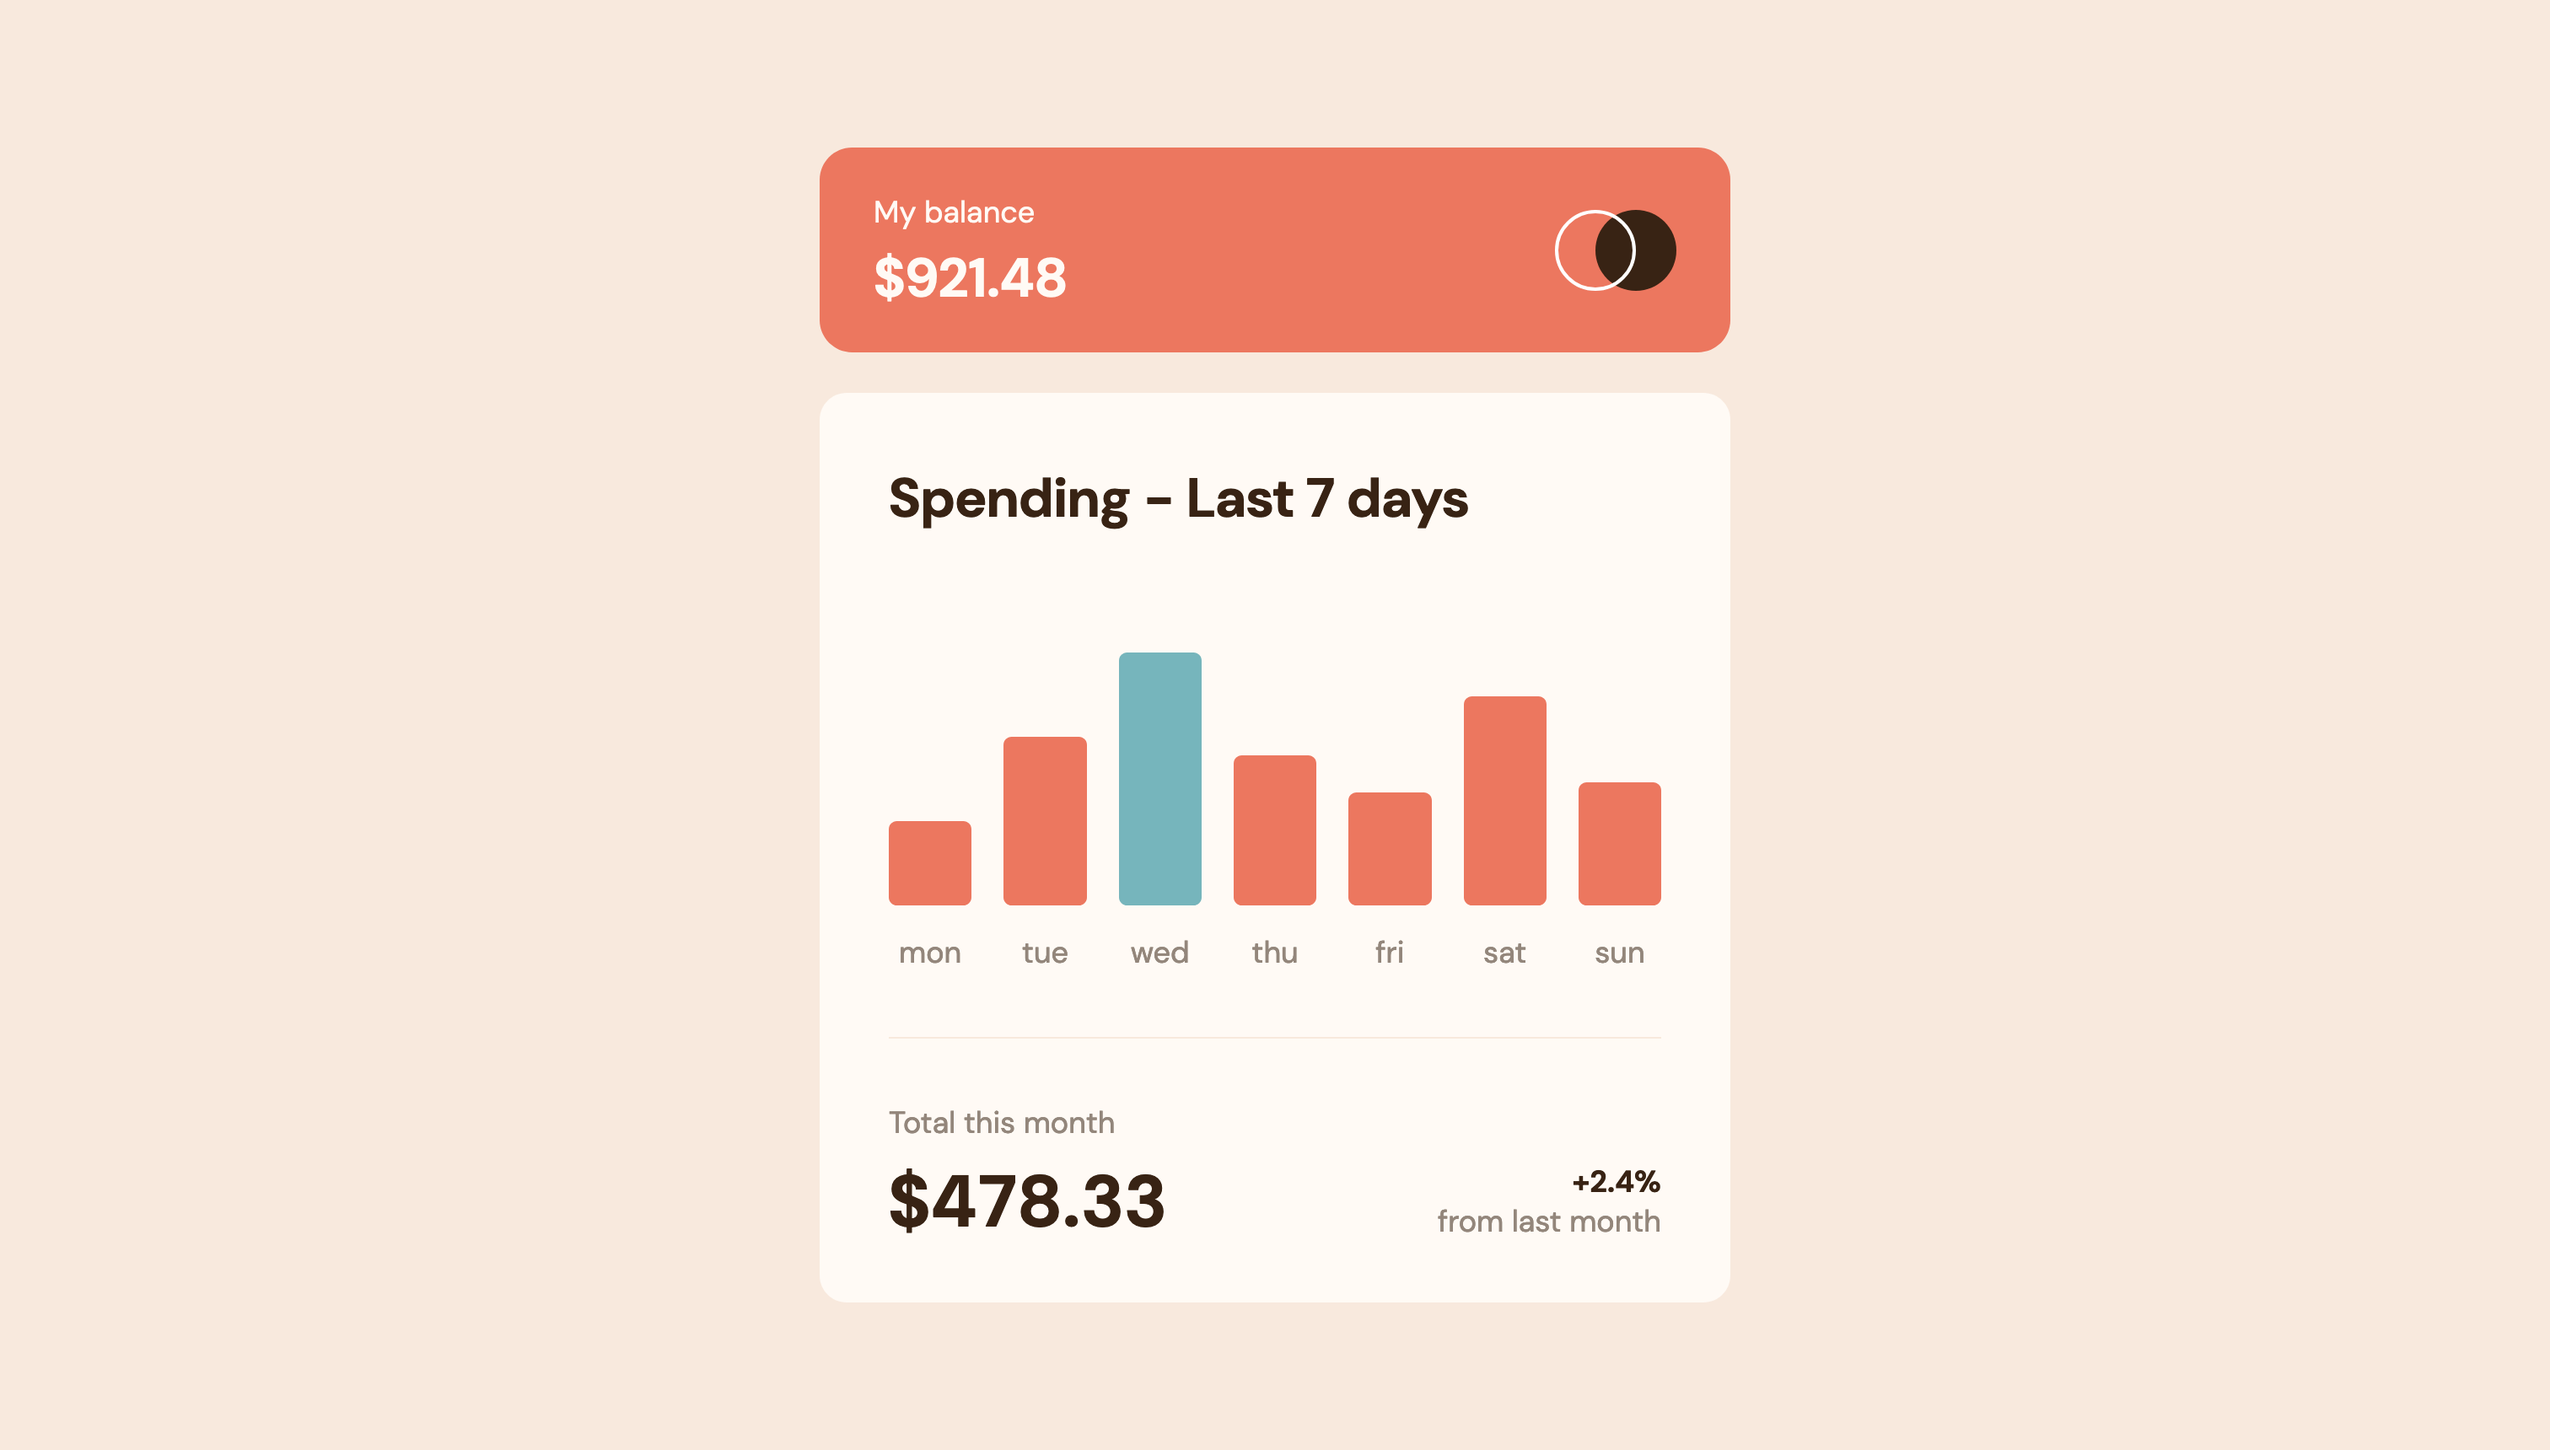
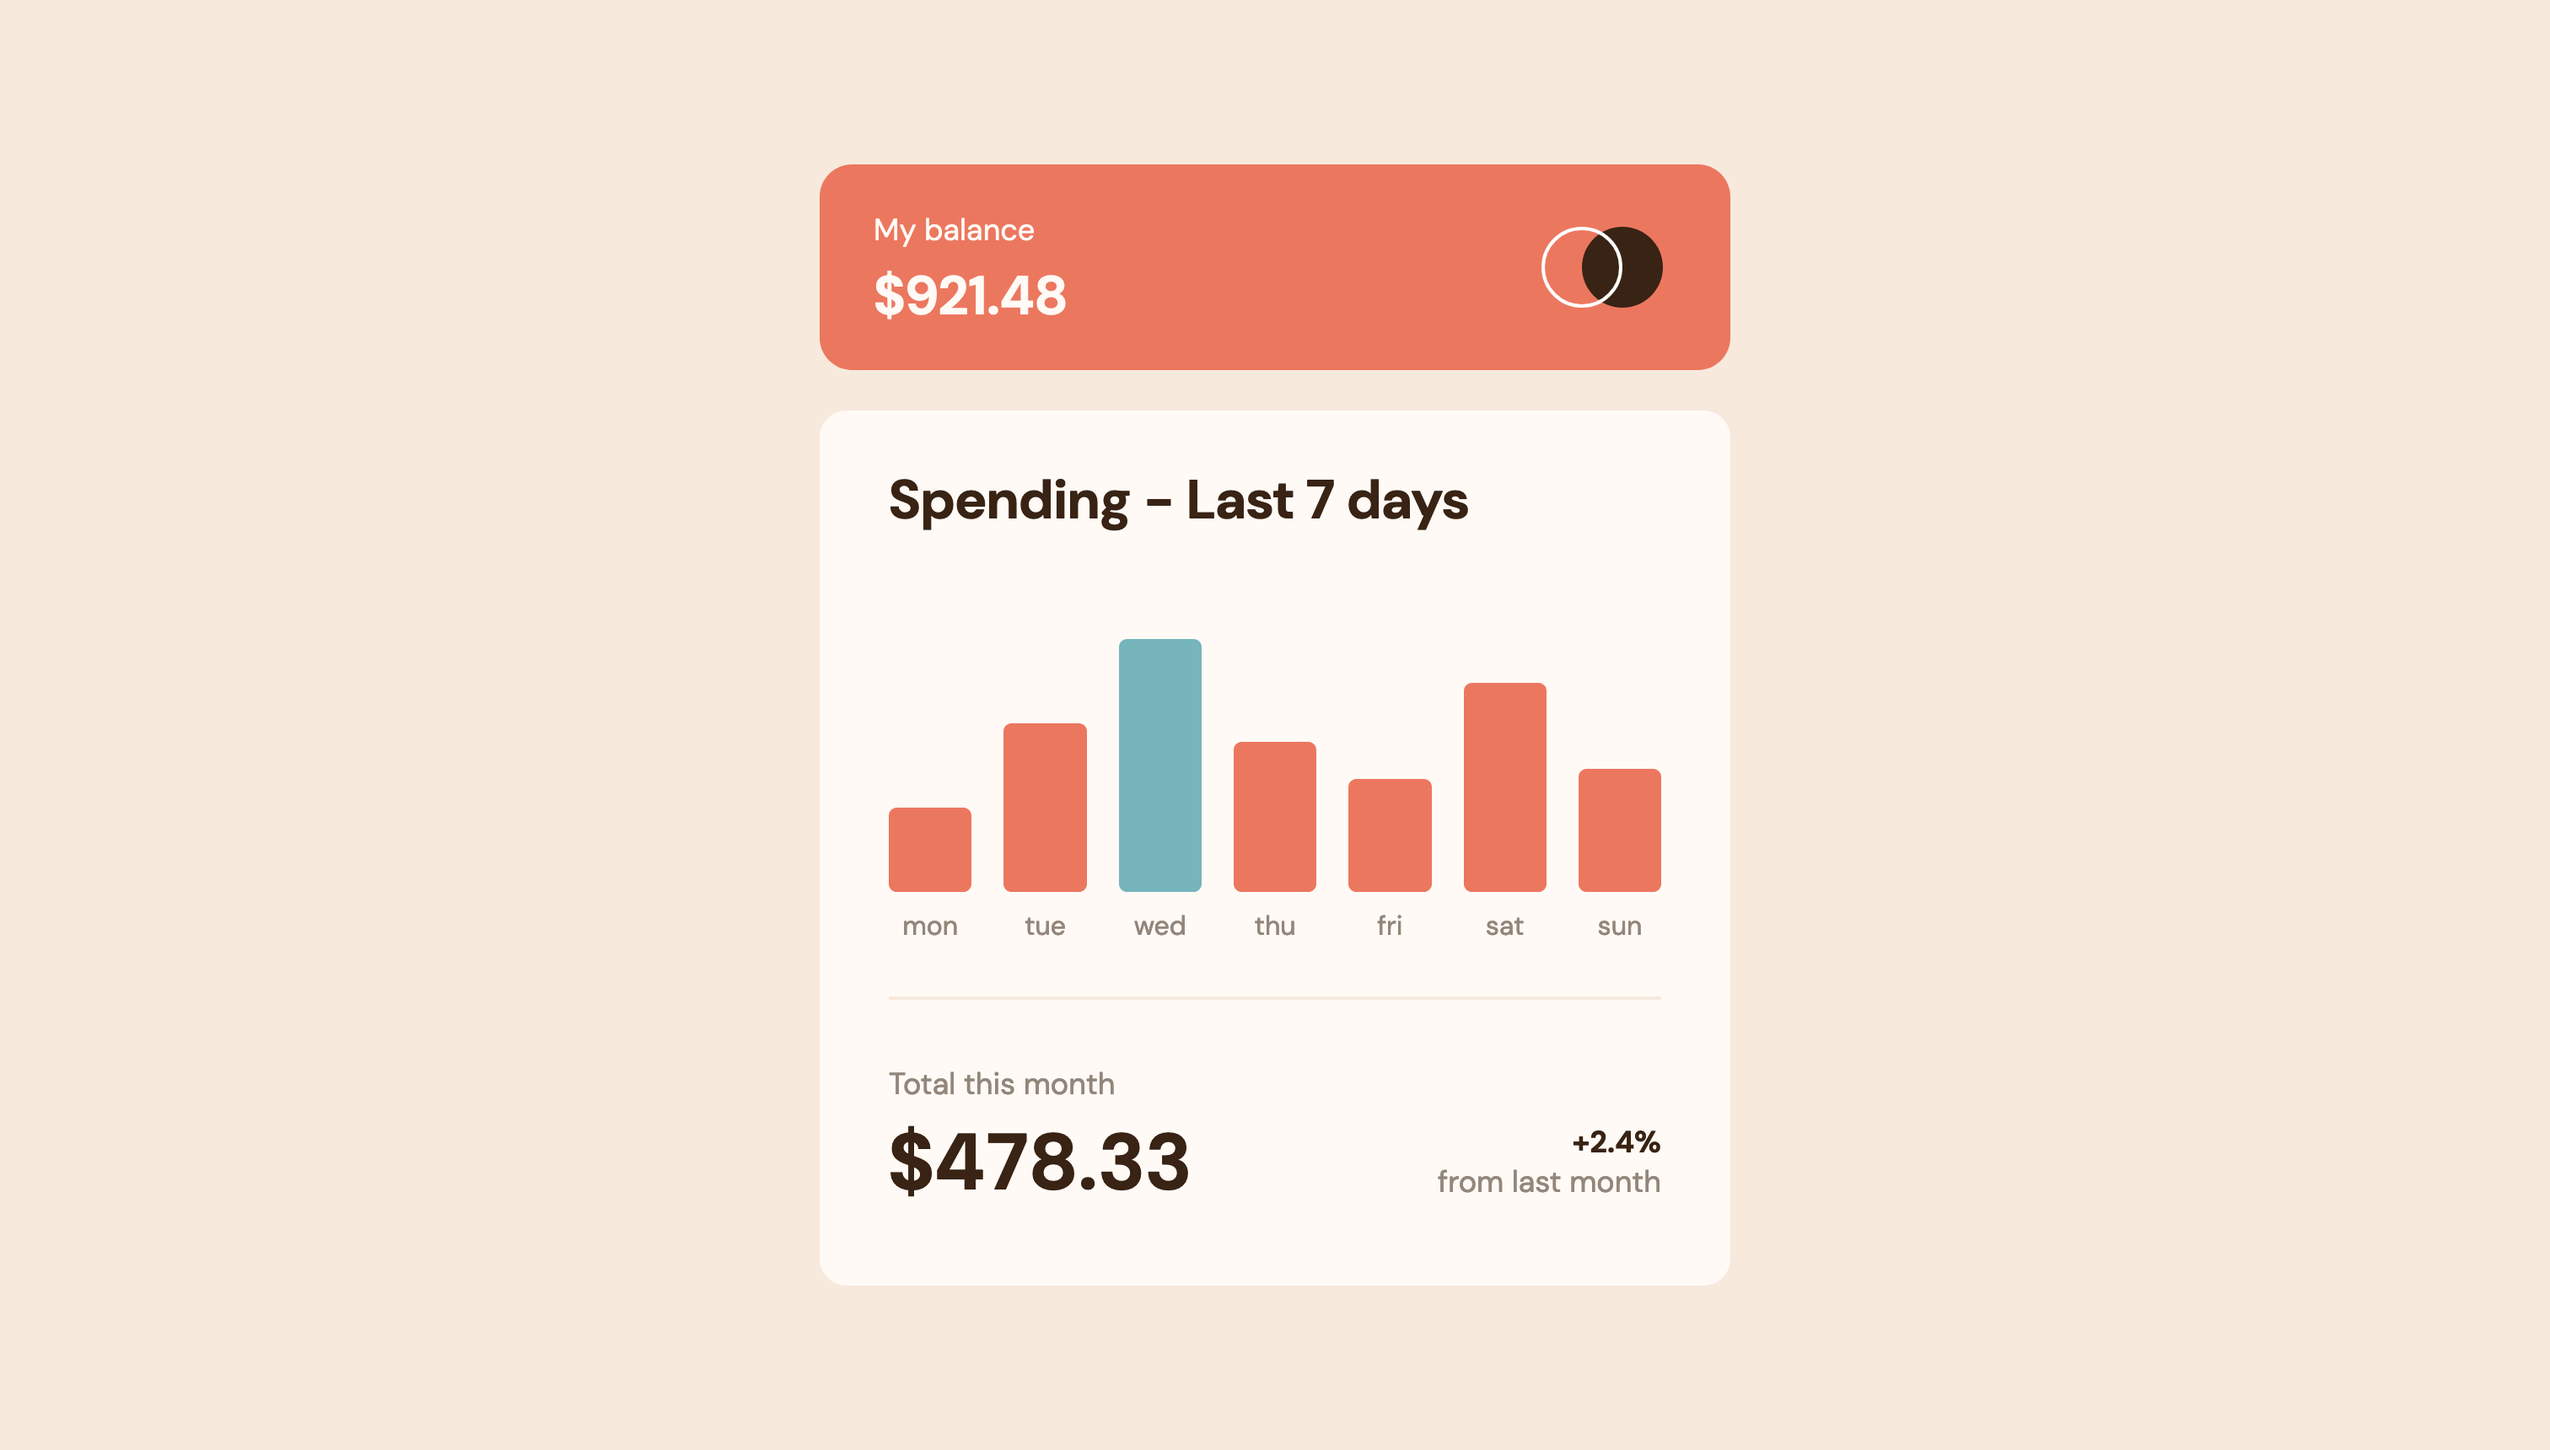
Made some small changes. Perfection is not necessary, as tempting as it is.

diff --git a/style.css b/style.css
@@ -74,7 +74,9 @@ strong, b {
 }
 
 .logo {
+    position: relative;
     width: clamp(3.75rem, 3.486rem + 1.127vw, 4.5rem);
+    right: 0.5rem;
 }
 
 .balance {
@@ -91,7 +93,7 @@ strong, b {
 }
 
 .summary {
-    padding-block: clamp(1.813rem, 1.548rem + 1.127vw, 2.563rem);
+    padding-block: clamp(1.813rem, 1.548rem + 1.127vw, 2.563rem) clamp(2rem, 1.516rem + 2.066vw, 3.375rem);
     padding-inline: clamp(1.25rem, 0.788rem + 1.972vw, 2.563rem);
     background-color: var(--clr-neutral-110);
     color: var(--clr-neutral-500);
@@ -101,6 +103,7 @@ strong, b {
 .summary-title {
     color: var(--clr-neutral-800);
     font-size: var(--title-font-size);
+    line-height: 0.75;
 }
 
 .chart {
@@ -159,11 +162,12 @@ strong, b {
 }
 .day {
     text-align: center;
-    font-size: clamp(0.7rem, 0.55rem + 0.638vw, 1.125rem);
+    font-size: clamp(0.7rem, 0.55rem + 0.638vw, 1rem);
+    line-height: 0.5;
 }
 
 .summary-details {
-    border-block-start: 1px solid var(--clr-neutral-200);
+    border-block-start: 2px solid var(--clr-neutral-200);
     padding-block-start: clamp(1.813rem, 1.614rem + 0.845vw, 2.375rem);
 }
 
@@ -180,7 +184,7 @@ strong, b {
 
 .summary-amount {
     color: var(--clr-neutral-800);
-    font-size: clamp(1.95rem, 1.686rem + 1.127vw, 2.7rem);
+    font-size: clamp(1.95rem, 1.598rem + 1.502vw, 2.95rem);
     line-height: clamp(2.34rem, 2.451rem + -0.473vw, 2.025rem);
     letter-spacing: clamp(0rem, -0.022rem + 0.094vw, 0.063rem);
 }
